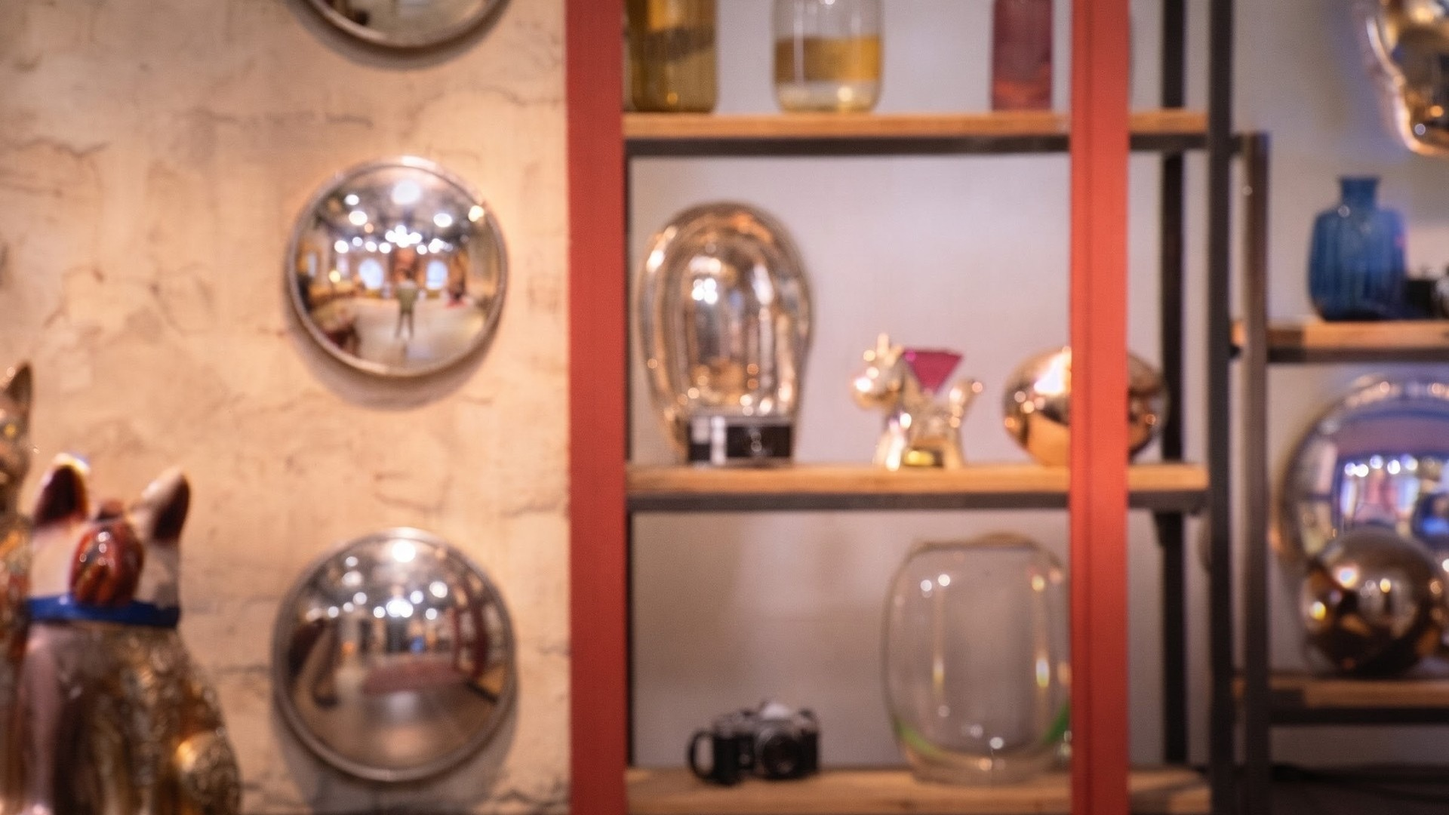
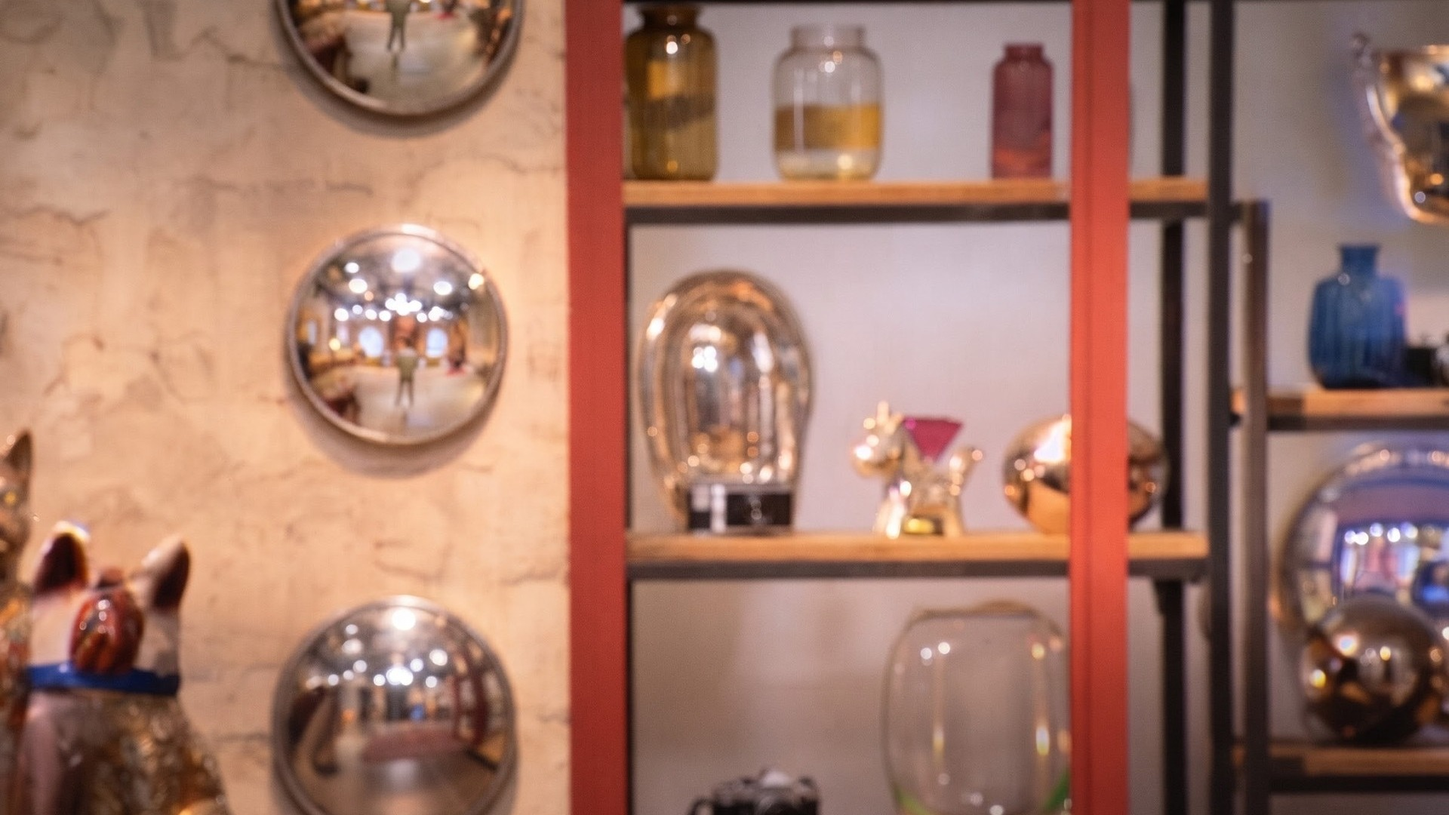
Affaire conclue : recadrage 16/9 en coupant surtout le bas (moins de sol)
Claude-Session: https://claude.ai/code/session_015182LFh91P53rg7UUMPXi4

diff --git a/sw.js b/sw.js
@@ -1,7 +1,7 @@
 /* Mode hors ligne – La Grande Incruste 3 */
-const CORE='lgi-core-7cfb0a7a53',IMG='lgi-img-v5',VID='lgi-vid-v1',RUN='lgi-run-v1';
+const CORE='lgi-core-aacdafbbed',IMG='lgi-img-v5',VID='lgi-vid-v1',RUN='lgi-run-v1';
 const FILES=['./','index.html','live.html','textes.json','diffusion.js','pdt.js','pdt.json','clean.js','offline.js','manifest.json','update.js','icon-192.png','icon-512.png'];
-const IMGS=["img/001.jpg?v=a0011ef5", "img/002.jpg?v=8a2c886e", "img/003.jpg?v=9f14b1a4", "img/004.jpg?v=be432a55", "img/005.jpg?v=705c38bc", "img/006.jpg?v=d040ff7c", "img/007.jpg?v=d00b0e6d", "img/008.jpg?v=42c808c1", "img/009.jpg?v=75ef2f66", "img/010.jpg?v=fd4c955d", "img/011.jpg?v=bab25d92", "img/012.jpg?v=1a95a5f6", "img/013.jpg?v=3dd606ea", "img/014.jpg?v=b9f47b6b", "img/015.jpg?v=485d7679", "img/016.jpg?v=6b96499b", "img/017.jpg?v=cb431869", "img/018.jpg?v=7e99b3dd", "img/019.jpg?v=9fa5921c", "img/020.jpg?v=a31e7f54", "img/021.jpg?v=b69abc28", "img/022.jpg?v=354d4626", "img/023.jpg?v=2fb60347", "img/024.jpg?v=e2bfb2ad", "img/025.jpg?v=81aa3958", "img/026.jpg?v=86e1f1de", "img/027.jpg?v=6d2871a1", "img/028.jpg?v=9cfdbb8a", "img/029.jpg?v=c40eac71", "img/030.jpg?v=f38a4db4", "img/031.jpg?v=35684917", "img/032.jpg?v=cfd1b45d", "img/033.jpg?v=3813c1a5", "img/034.jpg?v=a809ff5c", "img/035.jpg?v=8538bb8e", "img/036.jpg?v=a704e5b8", "img/037.jpg?v=c8f680c6", "img/038.jpg?v=46319b12", "img/039.jpg?v=77e00b79", "img/040.jpg?v=236da5b0", "img/041.jpg?v=d2ea8ae1", "img/042.jpg?v=3d318eac", "img/043.jpg?v=d6aaf49f", "img/044.jpg?v=e46d1ab4", "img/045.jpg?v=b0a2b200", "img/046.jpg?v=f40981cb", "img/047.jpg?v=99a8083a", "img/048.jpg?v=698fef71", "img/049.jpg?v=1e074c35", "img/050.jpg?v=cb0080d8", "img/051.jpg?v=4a19c8b1", "img/052.jpg?v=2186663a", "img/053.jpg?v=6f4be737", "img/054.jpg?v=b28c822f", "img/055.jpg?v=a1514c56", "img/056.jpg?v=f67d3cd9", "img/057.jpg?v=51f891be", "img/058.jpg?v=1a7cc3f4", "img/059.jpg?v=8482e28a", "img/060.jpg?v=9250aa56", "img/061.jpg?v=38d32fab", "img/062.jpg?v=5310d136", "img/063.jpg?v=035a38ab", "img/064.jpg?v=e4e2b1d3", "img/065.jpg?v=3ddba360", "img/066.jpg?v=44b345fe", "img/067.jpg?v=98e180e1", "img/068.jpg?v=b09ad6af", "img/069.jpg?v=85396bf8", "img/070.jpg?v=5902867d", "img/071.jpg?v=fa3285f3", "img/072.jpg?v=fa16ad7e", "img/073.jpg?v=6db09f7d", "img/074.jpg?v=195c2131", "img/075.jpg?v=c59dc5b5", "img/076.jpg?v=ccd61a36", "img/077.jpg?v=534864a7", "img/078.jpg?v=4b8bb4a3", "img/079.jpg?v=8ca2aa37", "img/080.jpg?v=42b44c9e", "img/081.jpg?v=bca461d0", "img/082.jpg?v=73449934", "img/083.jpg?v=0d8ddd9c", "img/084.jpg?v=42c6d5fb", "img/085.jpg?v=201d317e", "img/086.jpg?v=52d3aa77", "img/087.jpg?v=379cfeae", "img/088.jpg?v=ca428124", "img/089.jpg?v=c5955a72", "img/090.jpg?v=b32f6b95", "img/091.jpg?v=b4706305", "img/092.jpg?v=7d98425a", "img/093.jpg?v=9a6a9c97", "img/094.jpg?v=7b49ec84", "img/095.jpg?v=b0b71136", "img/096.jpg?v=15919d2a", "img/097.jpg?v=0cdca1a1", "img/098.jpg?v=a6092901", "img/099.jpg?v=2d43f55c", "img/100.jpg?v=31e06ba2", "img/101.jpg?v=36eec2bf", "img/102.jpg?v=54b4b38c", "img/103.jpg?v=ae81a3b8", "img/104.jpg?v=f3da651e", "img/105.jpg?v=320df2f5", "img/106.jpg?v=dcaf9b00", "img/107.jpg?v=d2c7eeed", "img/108.jpg?v=8cbfe2db", "img/109.jpg?v=75910756", "img/110.jpg?v=7692a5d4", "img/111.jpg?v=46e7009b", "img/112.jpg?v=73958c76", "img/113.jpg?v=d0c4e6db", "img/114.jpg?v=5e5812db", "img/115.jpg?v=8e83cdd3", "img/116.jpg?v=dba26528", "img/117.jpg?v=a9b2afb3", "img/118.jpg?v=a4b87255", "img/119.jpg?v=09618034", "img/120.jpg?v=df709573", "img/121.jpg?v=213e0610", "img/122.jpg?v=3539d45c", "img/123.jpg?v=d6867744", "img/124.jpg?v=fd1d34ba", "img/125.jpg?v=27ea24d1", "img/126.jpg?v=633e8b76", "img/127.jpg?v=ad5172aa", "img/128.jpg?v=41541019", "img/129.jpg?v=0b569c9d", "img/130.jpg?v=bdb4aaca", "img/131.jpg?v=0669a470", "img/132.jpg?v=7b668b25", "img/133.jpg?v=39581f91", "img/134.jpg?v=aa783c7d", "img/135.jpg?v=167ebcfb", "img/136.jpg?v=dbeef6e2", "img/137.jpg?v=a60be171", "img/138.jpg?v=0b70accb", "img/139.jpg?v=37e7c3fa", "img/140.jpg?v=691d9a20", "img/141.jpg?v=04a589b6", "img/142.jpg?v=26d41662", "img/143.jpg?v=93911a6c", "img/144.jpg?v=baeca3c4", "img/145.jpg?v=5c5d130c", "img/146.jpg?v=50a2ffc8", "img/147.jpg?v=d83475b4", "img/148.jpg?v=d83475b4", "img/149.jpg?v=d83475b4", "img/150.jpg?v=d83475b4", "img/151.jpg?v=ff4ee77d", "img/152.jpg?v=ff4ee77d", "img/153.jpg?v=4a6af0e7", "img/154.jpg?v=496f041a", "img/155.jpg?v=ff4ee77d", "img/156.jpg?v=ccd1a37b", "img/157.jpg?v=3bfc365e", "img/158.jpg?v=23bd9479", "img/159.jpg?v=86bfe93d", "img/160.jpg?v=f3cb3de1", "img/161.jpg?v=bbb08ba0", "img/162.jpg?v=ca7e5f84", "img/163.jpg?v=b094e76c", "img/164.jpg?v=ecee08cb", "img/165.jpg?v=3ddba360", "img/166.jpg?v=f5217898", "img/167.jpg?v=3565bf56", "img/168.jpg?v=dc59566a", "img/169.jpg?v=dc59566a", "img/170.jpg?v=46007893", "img/171.jpg?v=fdb52b78", "img/172.jpg?v=9320b08f", "img/173.jpg?v=fceadc85", "img/174.jpg?v=4d54a63d", "img/175.jpg?v=6991f512", "img/176.jpg?v=110efb8c", "img/177.jpg?v=58fa4ee5", "img/178.jpg?v=58fa4ee5", "img/179.jpg?v=1e50d842", "img/180.jpg?v=ddcaff77", "img/181.jpg?v=d3eb7d39", "img/182.jpg?v=2c0206db", "img/183.jpg?v=9df3054a", "img/184.jpg?v=76c01015", "img/185.jpg?v=d7478ebe", "img/186.jpg?v=9c792c2a", "img/187.jpg?v=f7366176", "img/188.jpg?v=ffa4f4ca", "img/189.jpg?v=0e987da3", "img/190.jpg?v=47c32321", "img/191.jpg?v=94f29b6c", "img/192.jpg?v=74209e7d", "img/193.jpg?v=d8f30150", "img/194.jpg?v=ed4e2808", "img/195.jpg?v=af88a3a7", "img/196.jpg?v=47d40858", "img/197.jpg?v=06a5c2ec", "img/198.jpg?v=330180b5", "img/199.jpg?v=de921f26", "img/200.jpg?v=ea21860f", "img/201.jpg?v=b770ec29", "img/202.jpg?v=4b1cfee6", "img/203.jpg?v=546253bb", "img/204.jpg?v=f8de56d3", "img/205.jpg?v=f17fe5cb", "img/206.jpg?v=e2746a85", "img/207.jpg?v=b5e7da78", "img/208.jpg?v=1b631ced", "img/209.jpg?v=fe5a29b9", "img/210.jpg?v=33e2f5ee", "img/211.jpg?v=236da5b0", "img/212.jpg?v=9c898868", "img/213.jpg?v=c5438416", "img/214.jpg?v=2935cc03", "img/215.jpg?v=22fb0d84", "img/216.jpg?v=503074a5", "img/217.jpg?v=c4ae1e68", "img/218.jpg?v=4046c440", "img/219.jpg?v=9fe33535", "img/220.jpg?v=16d3e18e", "img/221.jpg?v=055666a7", "img/222.jpg?v=01c6cb72", "img/223.jpg?v=809d1f33", "img/224.jpg?v=a594e53c", "img/V_court.jpg?v=330180b5", "img/V_moto_large.jpg?v=de921f26", "img/V_moto_serre.jpg?v=ec4b4c94", "img/V_sol.jpg?v=ea21860f", "img/clean/001.jpg?v=b4547a4d", "img/clean/002.jpg?v=3d2cff8a", "img/clean/004.jpg?v=3d370804", "img/clean/005.jpg?v=f1ae7ae3", "img/clean/009.jpg?v=d36661fd", "img/clean/010.jpg?v=be974f6d", "img/clean/011.jpg?v=b33d82a0", "img/clean/012.jpg?v=006e3c27", "img/clean/013.jpg?v=48f4c2af", "img/clean/016.jpg?v=9a99db85", "img/clean/017.jpg?v=071f7947", "img/clean/019.jpg?v=272f20cf", "img/clean/020.jpg?v=d2220bba", "img/clean/021.jpg?v=6b573294", "img/clean/022.jpg?v=6bf0712c", "img/clean/023.jpg?v=ff06a46a", "img/clean/024.jpg?v=25e0e44d", "img/clean/025.jpg?v=e1247b4b", "img/clean/026.jpg?v=977c8d27", "img/clean/028.jpg?v=9255f933", "img/clean/029.jpg?v=6ff06342", "img/clean/032.jpg?v=9b20ec88", "img/clean/035.jpg?v=74050494", "img/clean/039.jpg?v=16215093", "img/clean/040.jpg?v=6ccea22e", "img/clean/042.jpg?v=2ce8d60f", "img/clean/043.jpg?v=f7c64a0d", "img/clean/044.jpg?v=48dde8dd", "img/clean/045.jpg?v=334287bf", "img/clean/046.jpg?v=efbe20a3", "img/clean/048.jpg?v=eff55b19", "img/clean/050.jpg?v=1cbc4f72", "img/clean/052.jpg?v=0502e8ad", "img/clean/070.jpg?v=a6b2c18c", "img/clean/071.jpg?v=27625093", "img/clean/073.jpg?v=c539215d", "img/clean/074.jpg?v=02fde46e", "img/clean/075.jpg?v=af2c3231", "img/clean/076.jpg?v=533cab4e", "img/clean/077.jpg?v=70cc8aa9", "img/clean/078.jpg?v=7f23d9b2", "img/clean/079.jpg?v=1e803a9c", "img/clean/081.jpg?v=be0eeeb6", "img/clean/084.jpg?v=ad7e7cf1", "img/clean/089.jpg?v=fb967293", "img/clean/090.jpg?v=8869ee27", "img/clean/093.jpg?v=00e55bad", "img/clean/100.jpg?v=a7930724", "img/clean/101.jpg?v=4356f24d", "img/clean/103.jpg?v=a9b57fdb", "img/clean/105.jpg?v=aef697cc", "img/clean/106.jpg?v=7080f105", "img/clean/108.jpg?v=ff021c10", "img/clean/110.jpg?v=1f8a95c9", "img/clean/111.jpg?v=ab74f649", "img/clean/112.jpg?v=c694fc7a", "img/clean/114.jpg?v=1bd79928", "img/clean/162.jpg?v=a1b3005b", "img/clean/168.jpg?v=09695472", "img/clean/169.jpg?v=09695472", "img/clean/176.jpg?v=eae06dcc", "img/clean/179.jpg?v=d7f955cc", "img/clean/180.jpg?v=f2bba526", "img/clean/181.jpg?v=823df817", "img/clean/183.jpg?v=5ca38cba", "img/clean/184.jpg?v=24afc06e", "img/clean/185.jpg?v=ff2be735", "img/clean/186.jpg?v=3b5802af", "img/clean/187.jpg?v=9a5579c3", "img/clean/188.jpg?v=5c047fc1", "img/clean/196.jpg?v=80b69c75", "img/clean/197.jpg?v=06a5c2ec", "img/clean/198.jpg?v=bb06bbc7", "img/clean/199.jpg?v=04cae4b9", "img/clean/201.jpg?v=07bd81e1", "img/clean/211.jpg?v=6ccea22e", "img/clean/212.jpg?v=f02ef600", "img/clean/223.jpg?v=5d15ccd6", "img/clean/224.jpg?v=27f38127"];
+const IMGS=["img/001.jpg?v=a0011ef5", "img/002.jpg?v=8a2c886e", "img/003.jpg?v=9f14b1a4", "img/004.jpg?v=be432a55", "img/005.jpg?v=705c38bc", "img/006.jpg?v=d040ff7c", "img/007.jpg?v=d00b0e6d", "img/008.jpg?v=42c808c1", "img/009.jpg?v=75ef2f66", "img/010.jpg?v=fd4c955d", "img/011.jpg?v=bab25d92", "img/012.jpg?v=1a95a5f6", "img/013.jpg?v=3dd606ea", "img/014.jpg?v=b9f47b6b", "img/015.jpg?v=485d7679", "img/016.jpg?v=6b96499b", "img/017.jpg?v=cb431869", "img/018.jpg?v=7e99b3dd", "img/019.jpg?v=9fa5921c", "img/020.jpg?v=a31e7f54", "img/021.jpg?v=b69abc28", "img/022.jpg?v=354d4626", "img/023.jpg?v=2fb60347", "img/024.jpg?v=e2bfb2ad", "img/025.jpg?v=81aa3958", "img/026.jpg?v=86e1f1de", "img/027.jpg?v=6d2871a1", "img/028.jpg?v=9cfdbb8a", "img/029.jpg?v=c40eac71", "img/030.jpg?v=f38a4db4", "img/031.jpg?v=35684917", "img/032.jpg?v=cfd1b45d", "img/033.jpg?v=3813c1a5", "img/034.jpg?v=a809ff5c", "img/035.jpg?v=8538bb8e", "img/036.jpg?v=a704e5b8", "img/037.jpg?v=c8f680c6", "img/038.jpg?v=46319b12", "img/039.jpg?v=77e00b79", "img/040.jpg?v=236da5b0", "img/041.jpg?v=d2ea8ae1", "img/042.jpg?v=3d318eac", "img/043.jpg?v=d6aaf49f", "img/044.jpg?v=e46d1ab4", "img/045.jpg?v=b0a2b200", "img/046.jpg?v=f40981cb", "img/047.jpg?v=99a8083a", "img/048.jpg?v=698fef71", "img/049.jpg?v=1e074c35", "img/050.jpg?v=cb0080d8", "img/051.jpg?v=4a19c8b1", "img/052.jpg?v=2186663a", "img/053.jpg?v=6f4be737", "img/054.jpg?v=b28c822f", "img/055.jpg?v=a1514c56", "img/056.jpg?v=f67d3cd9", "img/057.jpg?v=51f891be", "img/058.jpg?v=1a7cc3f4", "img/059.jpg?v=8482e28a", "img/060.jpg?v=9250aa56", "img/061.jpg?v=38d32fab", "img/062.jpg?v=5310d136", "img/063.jpg?v=035a38ab", "img/064.jpg?v=e4e2b1d3", "img/065.jpg?v=3ddba360", "img/066.jpg?v=44b345fe", "img/067.jpg?v=98e180e1", "img/068.jpg?v=b09ad6af", "img/069.jpg?v=85396bf8", "img/070.jpg?v=5902867d", "img/071.jpg?v=fa3285f3", "img/072.jpg?v=fa16ad7e", "img/073.jpg?v=6db09f7d", "img/074.jpg?v=195c2131", "img/075.jpg?v=c59dc5b5", "img/076.jpg?v=ccd61a36", "img/077.jpg?v=534864a7", "img/078.jpg?v=4b8bb4a3", "img/079.jpg?v=8ca2aa37", "img/080.jpg?v=42b44c9e", "img/081.jpg?v=bca461d0", "img/082.jpg?v=73449934", "img/083.jpg?v=0d8ddd9c", "img/084.jpg?v=42c6d5fb", "img/085.jpg?v=201d317e", "img/086.jpg?v=52d3aa77", "img/087.jpg?v=379cfeae", "img/088.jpg?v=ca428124", "img/089.jpg?v=c5955a72", "img/090.jpg?v=b32f6b95", "img/091.jpg?v=b4706305", "img/092.jpg?v=7d98425a", "img/093.jpg?v=9a6a9c97", "img/094.jpg?v=7b49ec84", "img/095.jpg?v=b0b71136", "img/096.jpg?v=15919d2a", "img/097.jpg?v=0cdca1a1", "img/098.jpg?v=a6092901", "img/099.jpg?v=2d43f55c", "img/100.jpg?v=31e06ba2", "img/101.jpg?v=36eec2bf", "img/102.jpg?v=54b4b38c", "img/103.jpg?v=ae81a3b8", "img/104.jpg?v=f3da651e", "img/105.jpg?v=320df2f5", "img/106.jpg?v=dcaf9b00", "img/107.jpg?v=d2c7eeed", "img/108.jpg?v=8cbfe2db", "img/109.jpg?v=75910756", "img/110.jpg?v=7692a5d4", "img/111.jpg?v=46e7009b", "img/112.jpg?v=73958c76", "img/113.jpg?v=d0c4e6db", "img/114.jpg?v=5e5812db", "img/115.jpg?v=8e83cdd3", "img/116.jpg?v=dba26528", "img/117.jpg?v=a9b2afb3", "img/118.jpg?v=a4b87255", "img/119.jpg?v=09618034", "img/120.jpg?v=df709573", "img/121.jpg?v=213e0610", "img/122.jpg?v=3539d45c", "img/123.jpg?v=d6867744", "img/124.jpg?v=fd1d34ba", "img/125.jpg?v=27ea24d1", "img/126.jpg?v=633e8b76", "img/127.jpg?v=ad5172aa", "img/128.jpg?v=41541019", "img/129.jpg?v=0b569c9d", "img/130.jpg?v=bdb4aaca", "img/131.jpg?v=0669a470", "img/132.jpg?v=7b668b25", "img/133.jpg?v=39581f91", "img/134.jpg?v=aa783c7d", "img/135.jpg?v=167ebcfb", "img/136.jpg?v=dbeef6e2", "img/137.jpg?v=a60be171", "img/138.jpg?v=0b70accb", "img/139.jpg?v=37e7c3fa", "img/140.jpg?v=691d9a20", "img/141.jpg?v=04a589b6", "img/142.jpg?v=26d41662", "img/143.jpg?v=93911a6c", "img/144.jpg?v=baeca3c4", "img/145.jpg?v=5c5d130c", "img/146.jpg?v=50a2ffc8", "img/147.jpg?v=d83475b4", "img/148.jpg?v=d83475b4", "img/149.jpg?v=d83475b4", "img/150.jpg?v=d83475b4", "img/151.jpg?v=ff4ee77d", "img/152.jpg?v=ff4ee77d", "img/153.jpg?v=4a6af0e7", "img/154.jpg?v=496f041a", "img/155.jpg?v=ff4ee77d", "img/156.jpg?v=ccd1a37b", "img/157.jpg?v=3bfc365e", "img/158.jpg?v=23bd9479", "img/159.jpg?v=86bfe93d", "img/160.jpg?v=f3cb3de1", "img/161.jpg?v=bbb08ba0", "img/162.jpg?v=ca7e5f84", "img/163.jpg?v=b094e76c", "img/164.jpg?v=ecee08cb", "img/165.jpg?v=3ddba360", "img/166.jpg?v=f5217898", "img/167.jpg?v=3565bf56", "img/168.jpg?v=dc59566a", "img/169.jpg?v=dc59566a", "img/170.jpg?v=46007893", "img/171.jpg?v=fdb52b78", "img/172.jpg?v=9320b08f", "img/173.jpg?v=fceadc85", "img/174.jpg?v=4d54a63d", "img/175.jpg?v=6991f512", "img/176.jpg?v=110efb8c", "img/177.jpg?v=58fa4ee5", "img/178.jpg?v=58fa4ee5", "img/179.jpg?v=1e50d842", "img/180.jpg?v=ddcaff77", "img/181.jpg?v=d3eb7d39", "img/182.jpg?v=2c0206db", "img/183.jpg?v=9df3054a", "img/184.jpg?v=76c01015", "img/185.jpg?v=d7478ebe", "img/186.jpg?v=9c792c2a", "img/187.jpg?v=f7366176", "img/188.jpg?v=ffa4f4ca", "img/189.jpg?v=0e987da3", "img/190.jpg?v=47c32321", "img/191.jpg?v=94f29b6c", "img/192.jpg?v=74209e7d", "img/193.jpg?v=d8f30150", "img/194.jpg?v=ed4e2808", "img/195.jpg?v=af88a3a7", "img/196.jpg?v=47d40858", "img/197.jpg?v=06a5c2ec", "img/198.jpg?v=330180b5", "img/199.jpg?v=de921f26", "img/200.jpg?v=ea21860f", "img/201.jpg?v=b770ec29", "img/202.jpg?v=4b1cfee6", "img/203.jpg?v=546253bb", "img/204.jpg?v=f8de56d3", "img/205.jpg?v=f17fe5cb", "img/206.jpg?v=e2746a85", "img/207.jpg?v=b5e7da78", "img/208.jpg?v=1b631ced", "img/209.jpg?v=fe5a29b9", "img/210.jpg?v=33e2f5ee", "img/211.jpg?v=236da5b0", "img/212.jpg?v=9c898868", "img/213.jpg?v=c5438416", "img/214.jpg?v=2935cc03", "img/215.jpg?v=22fb0d84", "img/216.jpg?v=503074a5", "img/217.jpg?v=c4ae1e68", "img/218.jpg?v=4046c440", "img/219.jpg?v=9fe33535", "img/220.jpg?v=16d3e18e", "img/221.jpg?v=055666a7", "img/222.jpg?v=01c6cb72", "img/223.jpg?v=905fb4bb", "img/224.jpg?v=60d47876", "img/V_court.jpg?v=330180b5", "img/V_moto_large.jpg?v=de921f26", "img/V_moto_serre.jpg?v=ec4b4c94", "img/V_sol.jpg?v=ea21860f", "img/clean/001.jpg?v=b4547a4d", "img/clean/002.jpg?v=3d2cff8a", "img/clean/004.jpg?v=3d370804", "img/clean/005.jpg?v=f1ae7ae3", "img/clean/009.jpg?v=d36661fd", "img/clean/010.jpg?v=be974f6d", "img/clean/011.jpg?v=b33d82a0", "img/clean/012.jpg?v=006e3c27", "img/clean/013.jpg?v=48f4c2af", "img/clean/016.jpg?v=9a99db85", "img/clean/017.jpg?v=071f7947", "img/clean/019.jpg?v=272f20cf", "img/clean/020.jpg?v=d2220bba", "img/clean/021.jpg?v=6b573294", "img/clean/022.jpg?v=6bf0712c", "img/clean/023.jpg?v=ff06a46a", "img/clean/024.jpg?v=25e0e44d", "img/clean/025.jpg?v=e1247b4b", "img/clean/026.jpg?v=977c8d27", "img/clean/028.jpg?v=9255f933", "img/clean/029.jpg?v=6ff06342", "img/clean/032.jpg?v=9b20ec88", "img/clean/035.jpg?v=74050494", "img/clean/039.jpg?v=16215093", "img/clean/040.jpg?v=6ccea22e", "img/clean/042.jpg?v=2ce8d60f", "img/clean/043.jpg?v=f7c64a0d", "img/clean/044.jpg?v=48dde8dd", "img/clean/045.jpg?v=334287bf", "img/clean/046.jpg?v=efbe20a3", "img/clean/048.jpg?v=eff55b19", "img/clean/050.jpg?v=1cbc4f72", "img/clean/052.jpg?v=0502e8ad", "img/clean/070.jpg?v=a6b2c18c", "img/clean/071.jpg?v=27625093", "img/clean/073.jpg?v=c539215d", "img/clean/074.jpg?v=02fde46e", "img/clean/075.jpg?v=af2c3231", "img/clean/076.jpg?v=533cab4e", "img/clean/077.jpg?v=70cc8aa9", "img/clean/078.jpg?v=7f23d9b2", "img/clean/079.jpg?v=1e803a9c", "img/clean/081.jpg?v=be0eeeb6", "img/clean/084.jpg?v=ad7e7cf1", "img/clean/089.jpg?v=fb967293", "img/clean/090.jpg?v=8869ee27", "img/clean/093.jpg?v=00e55bad", "img/clean/100.jpg?v=a7930724", "img/clean/101.jpg?v=4356f24d", "img/clean/103.jpg?v=a9b57fdb", "img/clean/105.jpg?v=aef697cc", "img/clean/106.jpg?v=7080f105", "img/clean/108.jpg?v=ff021c10", "img/clean/110.jpg?v=1f8a95c9", "img/clean/111.jpg?v=ab74f649", "img/clean/112.jpg?v=c694fc7a", "img/clean/114.jpg?v=1bd79928", "img/clean/162.jpg?v=a1b3005b", "img/clean/168.jpg?v=09695472", "img/clean/169.jpg?v=09695472", "img/clean/176.jpg?v=eae06dcc", "img/clean/179.jpg?v=d7f955cc", "img/clean/180.jpg?v=f2bba526", "img/clean/181.jpg?v=823df817", "img/clean/183.jpg?v=5ca38cba", "img/clean/184.jpg?v=24afc06e", "img/clean/185.jpg?v=ff2be735", "img/clean/186.jpg?v=3b5802af", "img/clean/187.jpg?v=9a5579c3", "img/clean/188.jpg?v=5c047fc1", "img/clean/196.jpg?v=80b69c75", "img/clean/197.jpg?v=06a5c2ec", "img/clean/198.jpg?v=bb06bbc7", "img/clean/199.jpg?v=04cae4b9", "img/clean/201.jpg?v=07bd81e1", "img/clean/211.jpg?v=6ccea22e", "img/clean/212.jpg?v=f02ef600", "img/clean/223.jpg?v=8ee9cc6a", "img/clean/224.jpg?v=70517c81"];
 self.addEventListener('install',e=>{self.skipWaiting();e.waitUntil((async()=>{
   const c=await caches.open(CORE);await Promise.all(FILES.map(f=>c.add(new Request(f,{cache:'reload'})).catch(()=>{})));
   const ic=await caches.open(IMG);const todo=[];for(const u of IMGS){if(!(await ic.match(u)))todo.push(u)}

diff --git a/index.html b/index.html
@@ -447,9 +447,9 @@ Réalisateur « Le script, le script… Il a que ce mot à la bouche celui-là. 
 <dl class="grid"><div><dt>Diaph</dt><dd>f/2.8</dd></div><div><dt>Distance</dt><dd>0,4 m</dd></div><div><dt>Hauteur caméra</dt><dd>1,05 m</dd></div><div><dt>Inclinaison</dt><dd>0°</dd></div></dl>
 <div class="light"><h4>Lumière</h4><p>Latérale chaude rasante (≈ 3000 K) qui fait ressortir la texture du métal ; fond sombre flou avec un reflet clair.</p></div><p class="vfx">Porte de la régie</p><p class="lfx"><span class="lfxv">—</span></p></div></div><div class="shot"><div class="shot-pic"><button class="pic" type="button" data-full="img/222.jpg?v=01c6cb72" data-cap="#126 · Intro – Réalisateur en régie · Détail : voyant rouge qui passe au vert" aria-label="Agrandir l&#39;image"><img src="img/222.jpg?v=01c6cb72" alt="#126 · Intro – Réalisateur en régie · Détail : voyant rouge qui passe au vert" loading="lazy" width="1440" height="948"><span class="zoom">Agrandir</span></button><button class="lkbtn" type="button" data-img="img/222.jpg?v=01c6cb72" data-cap="#126 · Intro – Réalisateur en régie · Détail : voyant rouge qui passe au vert">◉ Incruste live</button></div><div class="shot-info"><p class="plan"><span class="n">#126</span>Détail : voyant rouge qui passe au vert</p><div class="lens"><span class="chip gm">G Master 24-70</span><span class="foc">70 mm</span></div>
 <dl class="grid"><div><dt>Diaph</dt><dd>f/2.8</dd></div><div><dt>Distance</dt><dd>0,4 m</dd></div><div><dt>Hauteur caméra</dt><dd>1,20 m</dd></div><div><dt>Inclinaison</dt><dd>0°</dd></div></dl>
-<div class="light"><h4>Lumière</h4><p>Le voyant est la source (rouge puis vert) sur du métal brossé ; ambiance très sombre.</p></div><p class="vfx">Porte de la régie · voyant bicolore (ou 2 prises)</p><p class="lfx"><span class="lfxv">—</span></p></div></div><div class="cards"><div class="card"><span class="refbadge">À tourner · pas d'image</span><h3>Matin (10h30, studio) – Intro plan 1</h3><p>Contre-plongée sur Camille → plafond du studio. Figurants : 2 gardes du corps. HMC : perruque fille, haut femme (à confirmer). Pas de réf image dans le déroulé.</p><p class="acc"><b>Accessoires :</b> 2 gardes du corps</p></div></div></article><article class="seq"><div class="keep"><h2>Affaire conclue</h2><p class="src">Origine : plateau télé, caméras broadcast 2/3&quot; et zooms (déduit, non publié). Sur FX6, fermer pour garder le fond aussi net.</p><div class="shot"><div class="shot-pic"><button class="pic" type="button" data-full="img/223.jpg?v=809d1f33" data-clean="img/clean/223.jpg?v=5d15ccd6" data-cap="#127 · Affaire conclue · Plan 1 – Camille dans la boutique (miroirs, étagère rouge)" aria-label="Agrandir l&#39;image"><img src="img/223.jpg?v=809d1f33" alt="#127 · Affaire conclue · Plan 1 – Camille dans la boutique (miroirs, étagère rouge)" loading="lazy" width="1920" height="1080"><span class="zoom">Agrandir</span></button><button class="lkbtn" type="button" data-img="img/223.jpg?v=809d1f33" data-cap="#127 · Affaire conclue · Plan 1 – Camille dans la boutique (miroirs, étagère rouge)">◉ Incruste live</button></div><div class="shot-info"><p class="plan"><span class="n">#127</span>Plan 1 – Camille dans la boutique (miroirs, étagère rouge)</p><div class="lens"><span class="chip gm">G Master 70-200</span><span class="foc">85 mm</span></div>
+<div class="light"><h4>Lumière</h4><p>Le voyant est la source (rouge puis vert) sur du métal brossé ; ambiance très sombre.</p></div><p class="vfx">Porte de la régie · voyant bicolore (ou 2 prises)</p><p class="lfx"><span class="lfxv">—</span></p></div></div><div class="cards"><div class="card"><span class="refbadge">À tourner · pas d'image</span><h3>Matin (10h30, studio) – Intro plan 1</h3><p>Contre-plongée sur Camille → plafond du studio. Figurants : 2 gardes du corps. HMC : perruque fille, haut femme (à confirmer). Pas de réf image dans le déroulé.</p><p class="acc"><b>Accessoires :</b> 2 gardes du corps</p></div></div></article><article class="seq"><div class="keep"><h2>Affaire conclue</h2><p class="src">Origine : plateau télé, caméras broadcast 2/3&quot; et zooms (déduit, non publié). Sur FX6, fermer pour garder le fond aussi net.</p><div class="shot"><div class="shot-pic"><button class="pic" type="button" data-full="img/223.jpg?v=905fb4bb" data-clean="img/clean/223.jpg?v=8ee9cc6a" data-cap="#127 · Affaire conclue · Plan 1 – Camille dans la boutique (miroirs, étagère rouge)" aria-label="Agrandir l&#39;image"><img src="img/223.jpg?v=905fb4bb" alt="#127 · Affaire conclue · Plan 1 – Camille dans la boutique (miroirs, étagère rouge)" loading="lazy" width="1920" height="1080"><span class="zoom">Agrandir</span></button><button class="lkbtn" type="button" data-img="img/223.jpg?v=905fb4bb" data-cap="#127 · Affaire conclue · Plan 1 – Camille dans la boutique (miroirs, étagère rouge)">◉ Incruste live</button></div><div class="shot-info"><p class="plan"><span class="n">#127</span>Plan 1 – Camille dans la boutique (miroirs, étagère rouge)</p><div class="lens"><span class="chip gm">G Master 70-200</span><span class="foc">85 mm</span></div>
 <dl class="grid"><div><dt>Diaph</dt><dd>f/2.8</dd></div><div><dt>Distance</dt><dd>2,8 m</dd></div><div><dt>Hauteur caméra</dt><dd>1,55 m</dd></div><div><dt>Inclinaison</dt><dd>0°</dd></div></dl>
-<div class="light"><h4>Lumière</h4><p>Key douce et large de face (≈ 5600 K), léger débouchage ; fond boutique chaud en pratiques (≈ 3200 K), miroirs bombés et étagères très flous.</p><p class="ratio"><span>Ratio ≈ 1,5:1 (≈ 0,6 IL) · Key : douce et large de face · Contre : non, fond chaud en pratiques</span></p></div><p class="vfx">Fond vert · plan taille face caméra · décor boutique en fond flou</p><p class="lfx"><span class="lfxv">—</span></p></div></div></div><div class="shot"><div class="shot-pic"><button class="pic" type="button" data-full="img/224.jpg?v=a594e53c" data-clean="img/clean/224.jpg?v=27f38127" data-cap="#128 · Affaire conclue · Plan 2 – Camille devant le plateau Affaire conclue" aria-label="Agrandir l&#39;image"><img src="img/224.jpg?v=a594e53c" alt="#128 · Affaire conclue · Plan 2 – Camille devant le plateau Affaire conclue" loading="lazy" width="1024" height="576"><span class="zoom">Agrandir</span></button><button class="lkbtn" type="button" data-img="img/224.jpg?v=a594e53c" data-cap="#128 · Affaire conclue · Plan 2 – Camille devant le plateau Affaire conclue">◉ Incruste live</button></div><div class="shot-info"><p class="plan"><span class="n">#128</span>Plan 2 – Camille devant le plateau Affaire conclue</p><div class="lens"><span class="chip gm">G Master 70-200</span><span class="foc">70 mm</span></div>
+<div class="light"><h4>Lumière</h4><p>Key douce et large de face (≈ 5600 K), léger débouchage ; fond boutique chaud en pratiques (≈ 3200 K), miroirs bombés et étagères très flous.</p><p class="ratio"><span>Ratio ≈ 1,5:1 (≈ 0,6 IL) · Key : douce et large de face · Contre : non, fond chaud en pratiques</span></p></div><p class="vfx">Fond vert · plan taille face caméra · décor boutique en fond flou</p><p class="lfx"><span class="lfxv">—</span></p></div></div></div><div class="shot"><div class="shot-pic"><button class="pic" type="button" data-full="img/224.jpg?v=60d47876" data-clean="img/clean/224.jpg?v=70517c81" data-cap="#128 · Affaire conclue · Plan 2 – Camille devant le plateau Affaire conclue" aria-label="Agrandir l&#39;image"><img src="img/224.jpg?v=60d47876" alt="#128 · Affaire conclue · Plan 2 – Camille devant le plateau Affaire conclue" loading="lazy" width="1024" height="576"><span class="zoom">Agrandir</span></button><button class="lkbtn" type="button" data-img="img/224.jpg?v=60d47876" data-cap="#128 · Affaire conclue · Plan 2 – Camille devant le plateau Affaire conclue">◉ Incruste live</button></div><div class="shot-info"><p class="plan"><span class="n">#128</span>Plan 2 – Camille devant le plateau Affaire conclue</p><div class="lens"><span class="chip gm">G Master 70-200</span><span class="foc">70 mm</span></div>
 <dl class="grid"><div><dt>Diaph</dt><dd>f/2.8</dd></div><div><dt>Distance</dt><dd>2,5 m</dd></div><div><dt>Hauteur caméra</dt><dd>1,60 m</dd></div><div><dt>Inclinaison</dt><dd>0°</dd></div></dl>
 <div class="light"><h4>Lumière</h4><p>Key douce de face légèrement gauche (≈ 5600 K) ; plateau en ambiance chaude tungstène (≈ 3200 K), projecteurs allumés et mur de briques en fond flou.</p><p class="ratio"><span>Ratio ≈ 1,5:1 (≈ 0,6 IL) · Key : douce de face, légèrement gauche · Contre : non, fond chaud tungstène</span></p></div><p class="vfx">Fond vert · plan taille face caméra · plateau (logo, kayak jaune) en fond flou</p><p class="lfx"><span class="lfxv">—</span></p></div></div></article></section><section class="day" id="J10"><header class="dayhead"><div class="slate"><span class="jn">J10</span><span class="dt">Mardi 27/10</span></div><div class="dmeta"><span>Plateau XR vidéo</span><span>INT</span><span>3 séquences · 10 refs</span></div></header><article class="seq"><div class="keep"><h2>Maillon faible</h2><p class="src">Origine : plateau télé, caméras broadcast 2/3&quot; et zooms (déduit, non publié). Sur FX6, fermer pour garder le fond aussi net.</p><div class="shot"><div class="shot-pic"><button class="pic" type="button" data-full="img/140.jpg?v=691d9a20" data-cap="#129 · Maillon faible · Plan 1 – animateur : Camille à sa place" aria-label="Agrandir l&#39;image"><img src="img/140.jpg?v=691d9a20" alt="#129 · Maillon faible · Plan 1 – animateur : Camille à sa place" loading="lazy" width="2400" height="1767"><span class="zoom">Agrandir</span></button><button class="lkbtn" type="button" data-img="img/140.jpg?v=691d9a20" data-cap="#129 · Maillon faible · Plan 1 – animateur : Camille à sa place">◉ Incruste live</button></div><div class="shot-info"><p class="plan"><span class="n">#129</span>Plan 1 – animateur : Camille à sa place</p><div class="lens"><span class="chip gm">G Master 70-200</span><span class="foc">85 mm</span></div>
 <dl class="grid"><div><dt>Diaph</dt><dd>f/4</dd></div><div><dt>Distance</dt><dd>3,1 m</dd></div><div><dt>Hauteur caméra</dt><dd>1,50 m</dd></div><div><dt>Inclinaison</dt><dd>0°</dd></div></dl>
@@ -2081,7 +2081,7 @@ paint();
 <script src="diffusion.js"></script>
 <script src="offline.js"></script>
 <script src="pdt.js"></script>
-<script>window.LGI_BUILD='20261026-181048-ae38'</script><script src="update.js"></script>
+<script>window.LGI_BUILD='20261026-181147-8751'</script><script src="update.js"></script>
 <script src="clean.js"></script>
 <script>
 (function(){

diff --git a/live.html b/live.html
@@ -676,4 +676,4 @@ if(f.type.indexOf('video')===0)window.__lk.open(null,f.name,b,u);else window.__l
 </script>
 <script src="diffusion.js"></script>
 <script src="clean.js"></script>
-<script src="offline.js"></script><script>window.LGI_BUILD='20261026-181048-ae38'</script><script src="update.js"></script></body></html>
+<script src="offline.js"></script><script>window.LGI_BUILD='20261026-181147-8751'</script><script src="update.js"></script></body></html>
